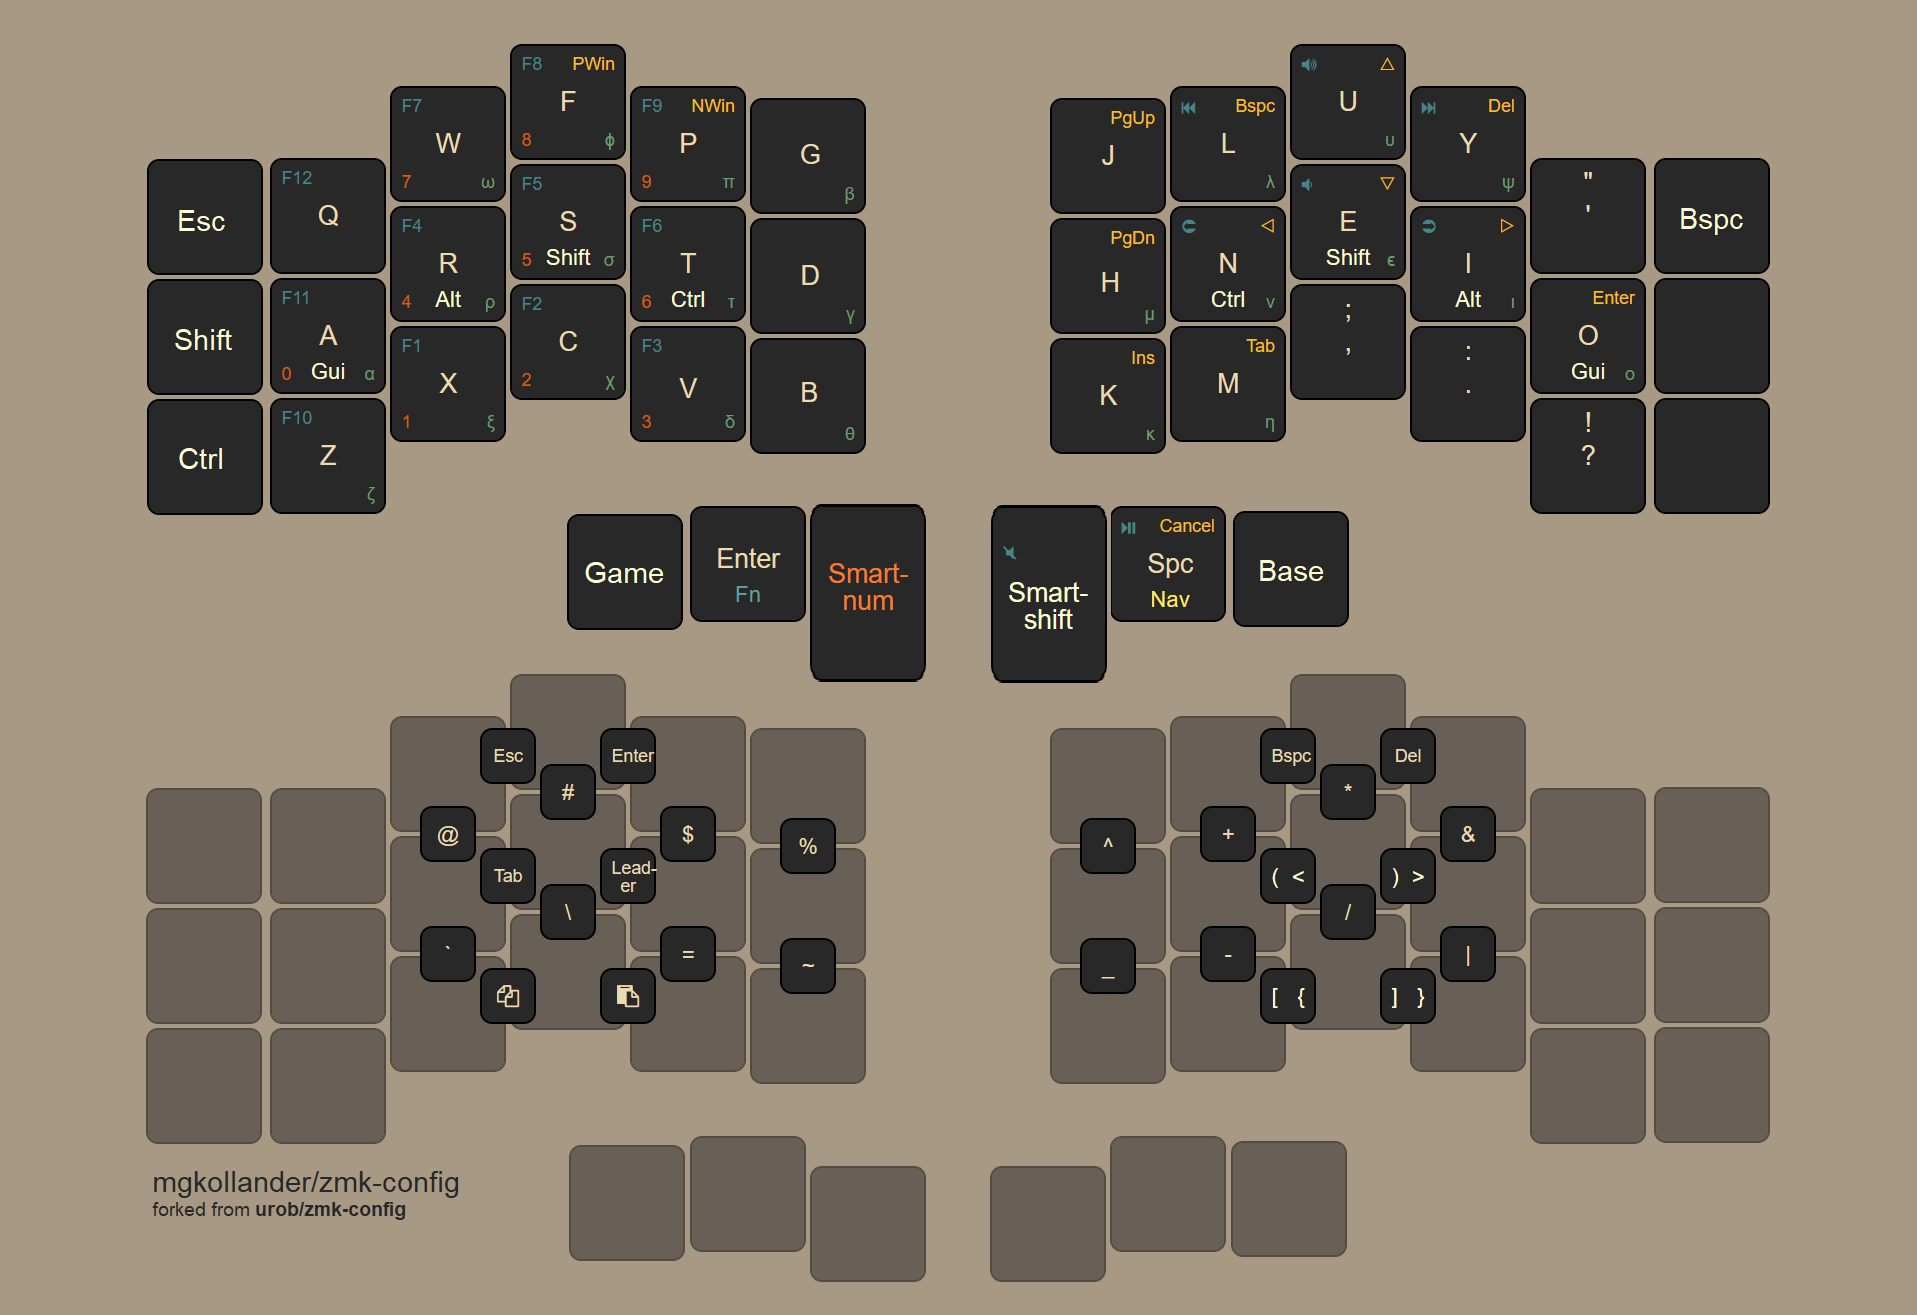
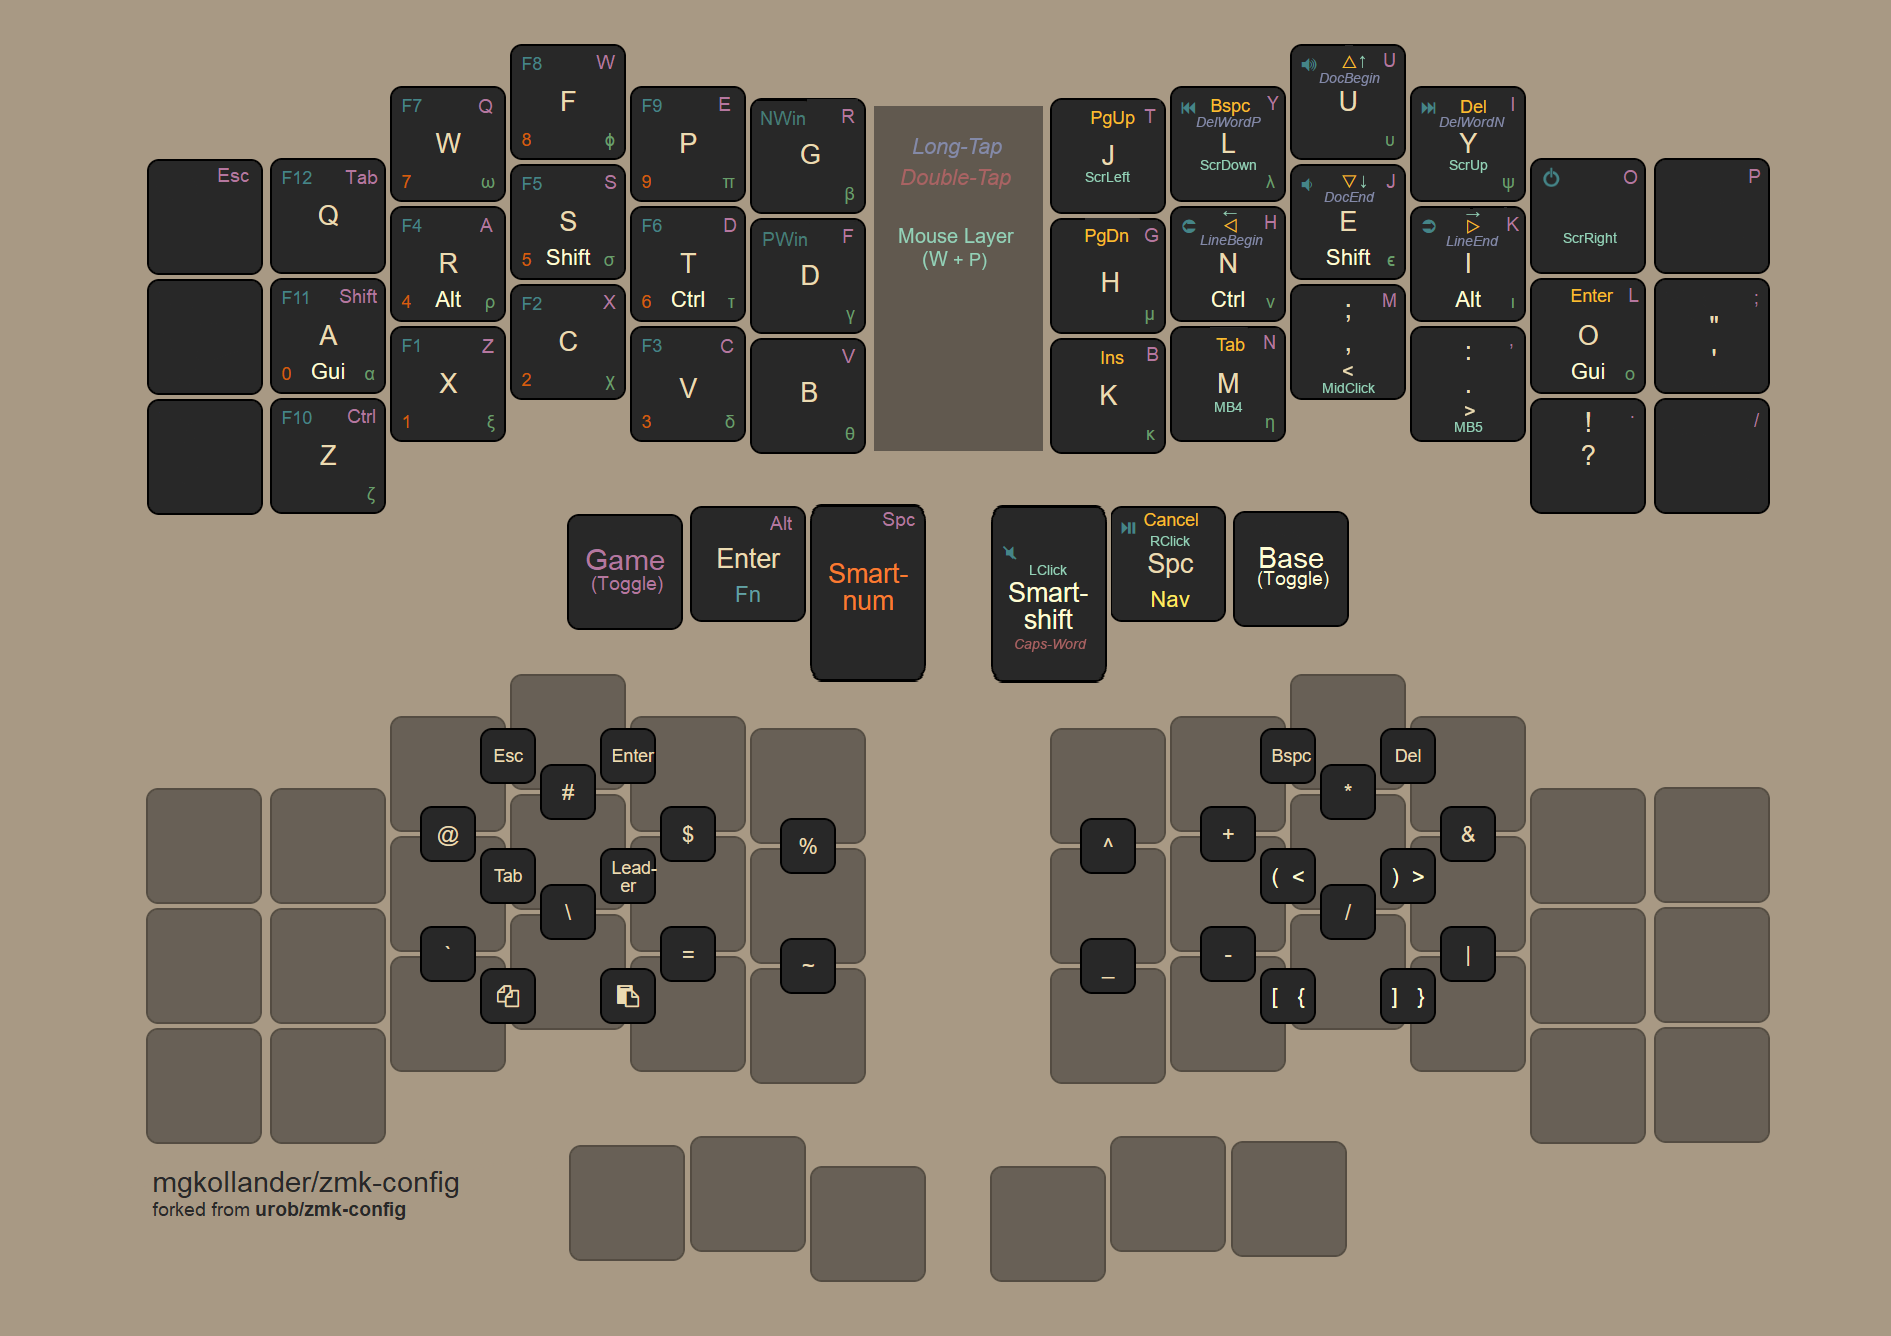
Image edits

Changed region(s): [[0.0624, 0.3741, 0.936, 0.9977], [0.0624, 0.0312, 0.936, 0.4053], [0.0624, 0.6548, 0.0936, 0.6859]]

diff --git a/readme.md b/readme.md
@@ -14,43 +14,17 @@ The description below is a very slight variation of urob's README, edited for my
 
 ## Todo
 
-- Change ALT Tab and swapper to left hand only
-- Figure out why leader key isn't working, remove unicode or switch back to L+Y?
-- Try increasing the combo term and decreasing the require prior to idle term
-- Change outside Corne keys once comfortable with homerow
-- Adjust gaming layer
-- Add info to keymap image
-  - tap: nav left  | long-tap: beginning of line
-  - tap: nav right | long-tap: end       of line
-  - tap: nav up    | long-tap: beginning of document
-  - tap: nav down  | long-tap: end       of document
-  - tap: nav bspc  | long-tap: delete word backward
-  - tap: nav del   | long-tap: delete word forward
-  - W+P mouse layer and scroll
-  - Gaming layer
-  - tap: sticky-shift | shift + tap/ double-tap: caps-word | hold: shift
-  - tap: num-word | double-tap: sticky num-layer | hold: num-layer
-  - tap: comma | shift + tap: semicolon | ctrl + shift + tap: <
-  - tap: dot | shift + tap: colon | ctrl + shift + tap: >
-  - tap: left/right parenthesis | shft + tap: less-than/greater-than
-  - tap: space | shift + tap: dot -> space -> sticky shift | hold: activate layer
-  - tap: backspace | lshft + tap: delete | rshft + tap: shift-delete
-  - tap: copy | double-tap: cut
-  - Windows sleep key
-  - // misc aliases
-  - #define CANCEL      &kp K_CANCEL             // cancel caps-word, num-word and smart-mouse
-  - #define DSK_PREV    &hmr LCTRL LG(LC(LEFT))  // previous desktop
-  - #define DSK_NEXT    &hmr LALT LG(LC(RIGHT))  // next     desktop
-  - #define PIN_WIN     &kp LG(LC(LS(Q)))        // pin window across desktops
-  - #define PIN_APP     &kp LG(LC(LS(A)))        // pin application across desktops
-  - #define DSK_MGR     &kp LA(GRAVE)            // desktop manager
-  - #define VOL_DOWN    &hmr RSHFT C_VOL_DN
-  - // FN + NUM --> SYS
-  - Fix missing FN layer shortcuts
-  - SYS layer
-  - mouse layer
-  - holding control activates symbols? look into this
-
+- Fix leader key not working, or remove and add unicode layer back
+- Increase combo term and decrease require prior to idle term
+- To fix on image:
+  - Unicode / leader key symbols
+  - Space functions: Shift + tap -> dot, space, sticky shift
+  - Pin window across desktops combo
+  - Pin application across desktops combo
+  - Desktop manager combo
+  - FN + NUM layers -> SYS layer
+  - All SYS layer buttons
+  
 ## Highlights
 
 - ["Timeless" homerow mods](#timeless-homerow-mods)
